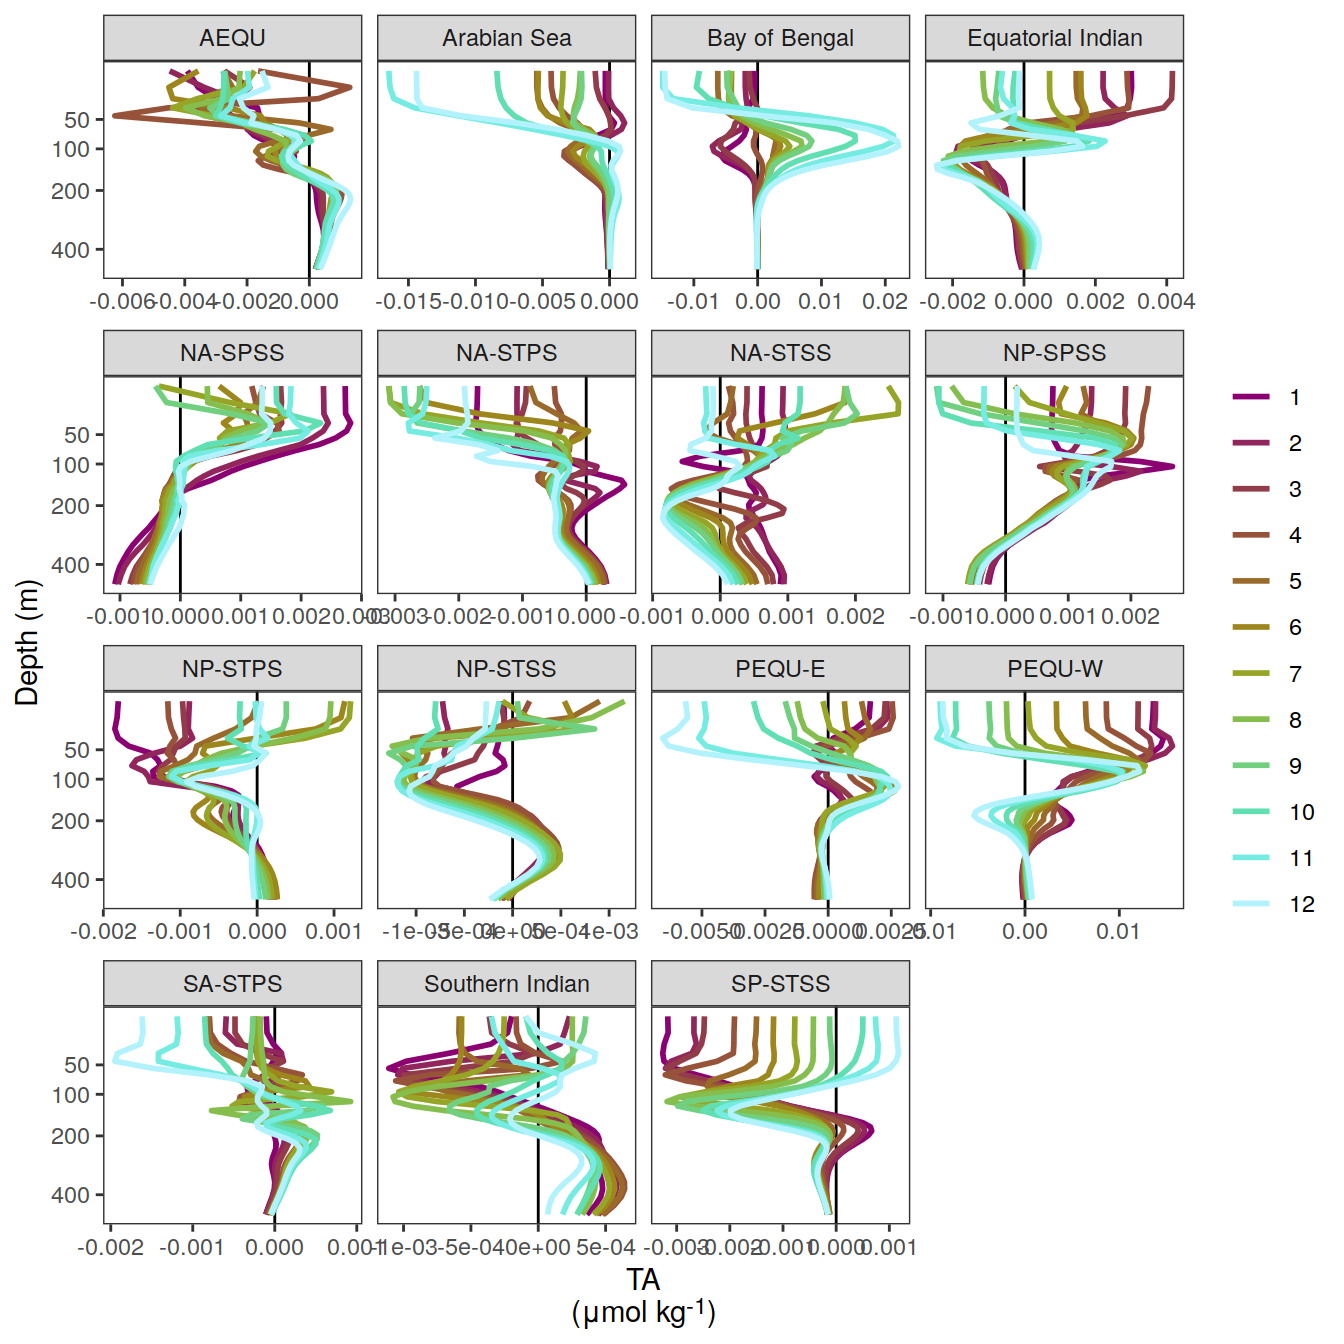
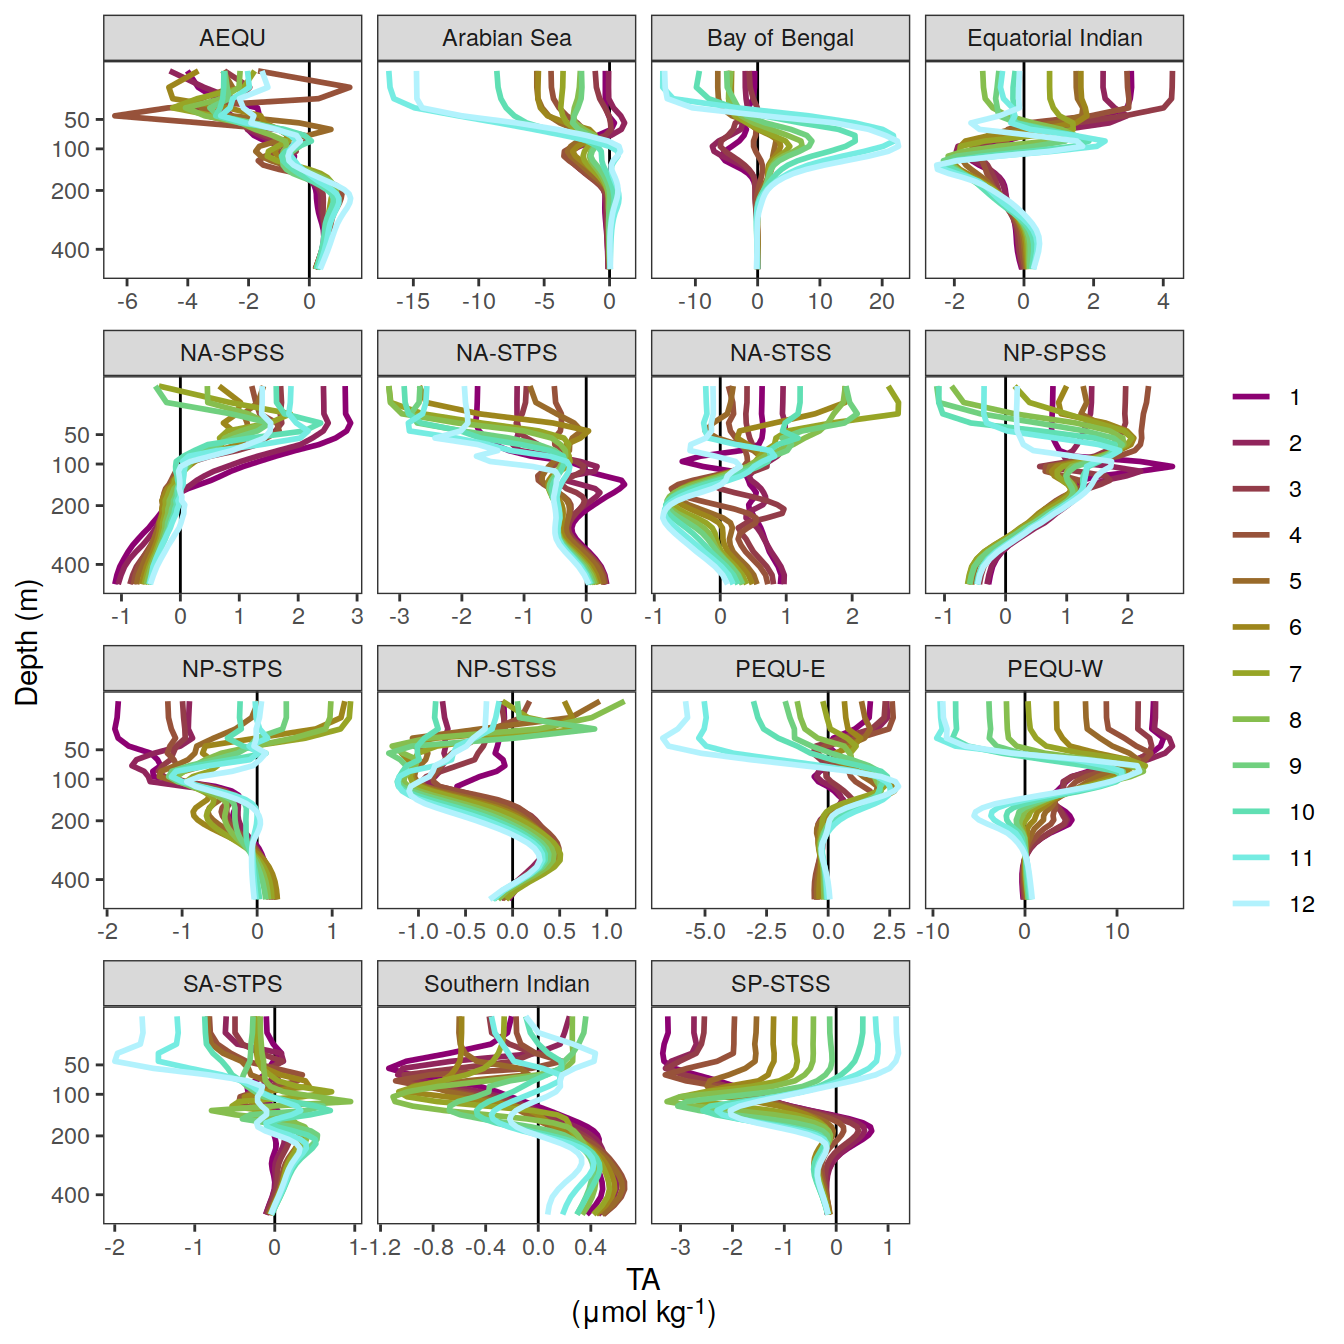
Build site.

diff --git a/docs/ETHZ_CESM.html b/docs/ETHZ_CESM.html
@@ -603,15 +603,15 @@ project makes it easier to run your code on other machines.</p>
 <div class="panel panel-default">
 <div class="panel-heading">
 <p class="panel-title">
-<a data-toggle="collapse" data-parent="#workflowr-checks" href="#strongRepositoryversionstrongahrefhttpsgithubcomjensdanielmuellerheatwaveco2flux2023treed02010588d3c3a6aed5495de963e8d04ad0053c1targetblankd020105a">
+<a data-toggle="collapse" data-parent="#workflowr-checks" href="#strongRepositoryversionstrongahrefhttpsgithubcomjensdanielmuellerheatwaveco2flux2023tree9918b19fea6af743c758e40108c4d149eda0b55atargetblank9918b19a">
 <span class="glyphicon glyphicon-ok text-success"
 aria-hidden="true"></span> <strong>Repository version:</strong>
-<a href="https://github.com/jens-daniel-mueller/heatwave_co2_flux_2023/tree/d02010588d3c3a6aed5495de963e8d04ad0053c1" target="_blank">d020105</a>
+<a href="https://github.com/jens-daniel-mueller/heatwave_co2_flux_2023/tree/9918b19fea6af743c758e40108c4d149eda0b55a" target="_blank">9918b19</a>
 </a>
 </p>
 </div>
 <div
[2 lines of base64/hex data omitted]
 class="panel-collapse collapse">
 <div class="panel-body">
 <p>
@@ -621,7 +621,7 @@ reproducibility.
 </p>
 <p>
 The results in this page were generated with repository version
-<a href="https://github.com/jens-daniel-mueller/heatwave_co2_flux_2023/tree/d02010588d3c3a6aed5495de963e8d04ad0053c1" target="_blank">d020105</a>.
+<a href="https://github.com/jens-daniel-mueller/heatwave_co2_flux_2023/tree/9918b19fea6af743c758e40108c4d149eda0b55a" target="_blank">9918b19</a>.
 See the <em>Past versions</em> tab to see a history of the changes made
 to the R Markdown and HTML files.
 </p>
@@ -687,6 +687,40 @@ Message
 </tr>
 </thead>
 <tbody>
+<tr>
+<td>
+Rmd
+</td>
+<td>
+<a href="https://github.com/jens-daniel-mueller/heatwave_co2_flux_2023/blob/9918b19fea6af743c758e40108c4d149eda0b55a/analysis/ETHZ_CESM.Rmd" target="_blank">9918b19</a>
+</td>
+<td>
+jens-daniel-mueller
+</td>
+<td>
+2024-05-24
+</td>
+<td>
+talk united fixed
+</td>
+</tr>
+<tr>
+<td>
+html
+</td>
+<td>
+<a href="https://rawcdn.githack.com/jens-daniel-mueller/heatwave_co2_flux_2023/76276f40024508e1d5e6a3a8ecd1738a831f6cdc/docs/ETHZ_CESM.html" target="_blank">76276f4</a>
+</td>
+<td>
+jens-daniel-mueller
+</td>
+<td>
+2024-05-24
+</td>
+<td>
+Build site.
+</td>
+</tr>
 <tr>
 <td>
 Rmd
@@ -1202,8 +1236,8 @@ pco2_product_interior &lt;-
 
 gc()</code></pre>
 <pre><code>             used    (Mb)  gc trigger     (Mb)    max used     (Mb)
-Ncells    2938037   157.0     5687307    303.8     3988528    213.1
-Vcells 6052291513 46175.4 24937067576 190254.8 31041220880 236825.8</code></pre>
+Ncells    2938048   157.0     5687295    303.8     3989120    213.1
+Vcells 6052291800 46175.4 24937067851 190254.8 31041221167 236825.8</code></pre>
 <pre class="r"><code>pco2_product_interior &lt;-
   pco2_product_interior %&gt;%
   mutate(time = ymd_hms(&quot;1980-01-01 00:00:00&quot;) + days(time))
@@ -1217,13 +1251,14 @@ pco2_product_interior &lt;-
   mutate(
     lon = if_else(lon &lt; 20, lon + 360, lon),
     dissic = dissic * 1.025e3,
+    talk = talk * 1.025e3,
     no3 = no3 * 1.025e3,
     o2 = o2 * 1.025e3
   )
 gc()</code></pre>
 <pre><code>             used    (Mb)  gc trigger     (Mb)    max used     (Mb)
-Ncells    2947273   157.5     5687307    303.8     3988528    213.1
-Vcells 6052312484 46175.5 19949654061 152203.8 31041220880 236825.8</code></pre>
+Ncells    2947284   157.5     5687295    303.8     3989120    213.1
+Vcells 6052312771 46175.5 19949654281 152203.8 31041221167 236825.8</code></pre>
 <pre class="r"><code># pco2_product_interior_sub &lt;-
 #   pco2_product_interior %&gt;%
 #   filter(time == max(time))
@@ -1709,8 +1744,8 @@ pco2_product_profiles &lt;-
 
 gc()</code></pre>
 <pre><code>             used    (Mb)  gc trigger     (Mb)    max used     (Mb)
-Ncells    3070067   164.0    52750177   2817.2    65937721   3521.5
-Vcells 4788001665 36529.6 15959723249 121763.1 31041220880 236825.8</code></pre>
+Ncells    3070073   164.0    52750121   2817.2    65937651   3521.5
+Vcells 4788001896 36529.6 15959723425 121763.1 31041221167 236825.8</code></pre>
 <pre class="r"><code>pco2_product_interior &lt;- 
   left_join(
     region_mask,
@@ -1734,8 +1769,8 @@ pco2_product_zonal_mean &lt;-
 
 gc()</code></pre>
 <pre><code>             used    (Mb)  gc trigger    (Mb)    max used     (Mb)
-Ncells    3070087   164.0    42200142  2253.8    65937721   3521.5
-Vcells 4523590270 34512.3 12767778600 97410.5 31041220880 236825.8</code></pre>
+Ncells    3070093   164.0    42200097  2253.8    65937651   3521.5
+Vcells 4523590501 34512.3 12767778740 97410.5 31041221167 236825.8</code></pre>
 <pre class="r"><code># pco2_product_zonal_mean %&gt;% 
 #   filter(region == &quot;atlantic&quot;,
 #          year == 2023,
@@ -1748,8 +1783,8 @@ Vcells 4523590270 34512.3 12767778600 97410.5 31041220880 236825.8</code></pre>
 rm(pco2_product_interior)
 gc()</code></pre>
 <pre><code>             used    (Mb)  gc trigger    (Mb)    max used     (Mb)
-Ncells    3070127   164.0    33760114  1803.0    65937721   3521.5
-Vcells 1445726498 11030.1 10214222880 77928.4 31041220880 236825.8</code></pre>
+Ncells    3070133   164.0    33760078  1803.0    65937651   3521.5
+Vcells 1445726729 11030.1 10214222992 77928.4 31041221167 236825.8</code></pre>
 </div>
 </div>
 <div id="absolute-values" class="section level1">
@@ -28285,6 +28320,17 @@ Date
 <tbody>
 <tr>
 <td>
+<a href="https://github.com/jens-daniel-mueller/heatwave_co2_flux_2023/blob/76276f40024508e1d5e6a3a8ecd1738a831f6cdc/docs/figure/ETHZ_CESM.Rmd/2023_anomaly_zonal_mean_sections_annual-4.png" target="_blank">76276f4</a>
+</td>
+<td>
+jens-daniel-mueller
+</td>
+<td>
+2024-05-24
+</td>
+</tr>
+<tr>
+<td>
 <a href="https://github.com/jens-daniel-mueller/heatwave_co2_flux_2023/blob/d3d3c448aa9c064f820ea35b9d54c7f781c95ed0/docs/figure/ETHZ_CESM.Rmd/2023_anomaly_zonal_mean_sections_annual-4.png" target="_blank">d3d3c44</a>
 </td>
 <td>
@@ -28301,6 +28347,44 @@ jens-daniel-mueller
 <pre><code>
 [[5]]</code></pre>
 <p><img src="figure/ETHZ_CESM.Rmd/2023_anomaly_zonal_mean_sections_annual-5.png" width="672" style="display: block; margin: auto;" /></p>
+<p>
+<button type="button" class="btn btn-default btn-xs btn-workflowr btn-workflowr-fig" data-toggle="collapse" data-target="#fig-2023_anomaly_zonal_mean_sections_annual-5">
+Past versions of 2023_anomaly_zonal_mean_sections_annual-5.png
+</button>
+</p>
+<div id="fig-2023_anomaly_zonal_mean_sections_annual-5"
+class="collapse">
+<div class="table-responsive">
+<table class="table table-condensed table-hover">
+<thead>
+<tr>
+<th>
+Version
+</th>
+<th>
+Author
+</th>
+<th>
+Date
+</th>
+</tr>
+</thead>
+<tbody>
+<tr>
+<td>
+<a href="https://github.com/jens-daniel-mueller/heatwave_co2_flux_2023/blob/76276f40024508e1d5e6a3a8ecd1738a831f6cdc/docs/figure/ETHZ_CESM.Rmd/2023_anomaly_zonal_mean_sections_annual-5.png" target="_blank">76276f4</a>
+</td>
+<td>
+jens-daniel-mueller
+</td>
+<td>
+2024-05-24
+</td>
+</tr>
+</tbody>
+</table>
+</div>
+</div>
 <pre class="r"><code>pco2_product_zonal_mean_annual_regression %&gt;%
   write_csv(paste0(&quot;../data/&quot;,&quot;ETHZ_CESM&quot;,&quot;_&quot;,&quot;2023&quot;,&quot;_zonal_mean_sections_annual.csv&quot;))</code></pre>
 </div>
@@ -28487,6 +28571,17 @@ Date
 <tbody>
 <tr>
 <td>
+<a href="https://github.com/jens-daniel-mueller/heatwave_co2_flux_2023/blob/76276f40024508e1d5e6a3a8ecd1738a831f6cdc/docs/figure/ETHZ_CESM.Rmd/2023_anomaly_profiles_annual-4.png" target="_blank">76276f4</a>
+</td>
+<td>
+jens-daniel-mueller
+</td>
+<td>
+2024-05-24
+</td>
+</tr>
+<tr>
+<td>
 <a href="https://github.com/jens-daniel-mueller/heatwave_co2_flux_2023/blob/d3d3c448aa9c064f820ea35b9d54c7f781c95ed0/docs/figure/ETHZ_CESM.Rmd/2023_anomaly_profiles_annual-4.png" target="_blank">d3d3c44</a>
 </td>
 <td>
@@ -28503,6 +28598,43 @@ jens-daniel-mueller
 <pre><code>
 [[5]]</code></pre>
 <p><img src="figure/ETHZ_CESM.Rmd/2023_anomaly_profiles_annual-5.png" width="672" style="display: block; margin: auto;" /></p>
+<p>
+<button type="button" class="btn btn-default btn-xs btn-workflowr btn-workflowr-fig" data-toggle="collapse" data-target="#fig-2023_anomaly_profiles_annual-5">
+Past versions of 2023_anomaly_profiles_annual-5.png
+</button>
+</p>
+<div id="fig-2023_anomaly_profiles_annual-5" class="collapse">
+<div class="table-responsive">
+<table class="table table-condensed table-hover">
+<thead>
+<tr>
+<th>
+Version
+</th>
+<th>
+Author
+</th>
+<th>
+Date
+</th>
+</tr>
+</thead>
+<tbody>
+<tr>
+<td>
+<a href="https://github.com/jens-daniel-mueller/heatwave_co2_flux_2023/blob/76276f40024508e1d5e6a3a8ecd1738a831f6cdc/docs/figure/ETHZ_CESM.Rmd/2023_anomaly_profiles_annual-5.png" target="_blank">76276f4</a>
+</td>
+<td>
+jens-daniel-mueller
+</td>
+<td>
+2024-05-24
+</td>
+</tr>
+</tbody>
+</table>
+</div>
+</div>
 <pre class="r"><code>pco2_product_profiles_annual_regression %&gt;%
   write_csv(paste0(&quot;../data/&quot;,&quot;ETHZ_CESM&quot;,&quot;_&quot;,&quot;2023&quot;,&quot;_profiles_annual.csv&quot;))</code></pre>
 </div>
@@ -28687,6 +28819,17 @@ Date
 <tbody>
 <tr>
 <td>
+<a href="https://github.com/jens-daniel-mueller/heatwave_co2_flux_2023/blob/76276f40024508e1d5e6a3a8ecd1738a831f6cdc/docs/figure/ETHZ_CESM.Rmd/2023_anomaly_profiles_monthly-4.png" target="_blank">76276f4</a>
+</td>
+<td>
+jens-daniel-mueller
+</td>
+<td>
+2024-05-24
+</td>
+</tr>
+<tr>
+<td>
 <a href="https://github.com/jens-daniel-mueller/heatwave_co2_flux_2023/blob/d3d3c448aa9c064f820ea35b9d54c7f781c95ed0/docs/figure/ETHZ_CESM.Rmd/2023_anomaly_profiles_monthly-4.png" target="_blank">d3d3c44</a>
 </td>
 <td>
@@ -28703,6 +28846,43 @@ jens-daniel-mueller
 <pre><code>
 [[5]]</code></pre>
 <p><img src="figure/ETHZ_CESM.Rmd/2023_anomaly_profiles_monthly-5.png" width="672" style="display: block; margin: auto;" /></p>
+<p>
+<button type="button" class="btn btn-default btn-xs btn-workflowr btn-workflowr-fig" data-toggle="collapse" data-target="#fig-2023_anomaly_profiles_monthly-5">
+Past versions of 2023_anomaly_profiles_monthly-5.png
+</button>
+</p>
+<div id="fig-2023_anomaly_profiles_monthly-5" class="collapse">
+<div class="table-responsive">
+<table class="table table-condensed table-hover">
+<thead>
+<tr>
+<th>
+Version
+</th>
+<th>
+Author
+</th>
+<th>
+Date
+</th>
+</tr>
+</thead>
+<tbody>
+<tr>
+<td>
+<a href="https://github.com/jens-daniel-mueller/heatwave_co2_flux_2023/blob/76276f40024508e1d5e6a3a8ecd1738a831f6cdc/docs/figure/ETHZ_CESM.Rmd/2023_anomaly_profiles_monthly-5.png" target="_blank">76276f4</a>
+</td>
+<td>
+jens-daniel-mueller
+</td>
+<td>
+2024-05-24
+</td>
+</tr>
+</tbody>
+</table>
+</div>
+</div>
 <pre class="r"><code>pco2_product_profiles_monthly_regression %&gt;%
   write_csv(paste0(&quot;../data/&quot;,&quot;ETHZ_CESM&quot;,&quot;_&quot;,&quot;2023&quot;,&quot;_profiles_monthly.csv&quot;))</code></pre>
 <br>
